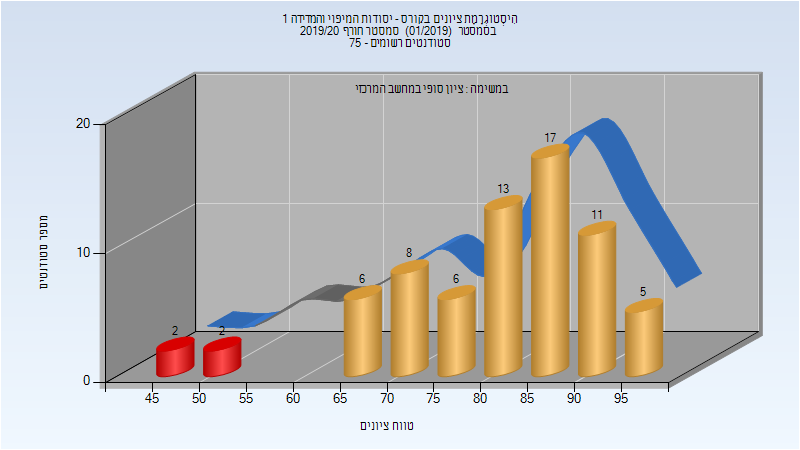
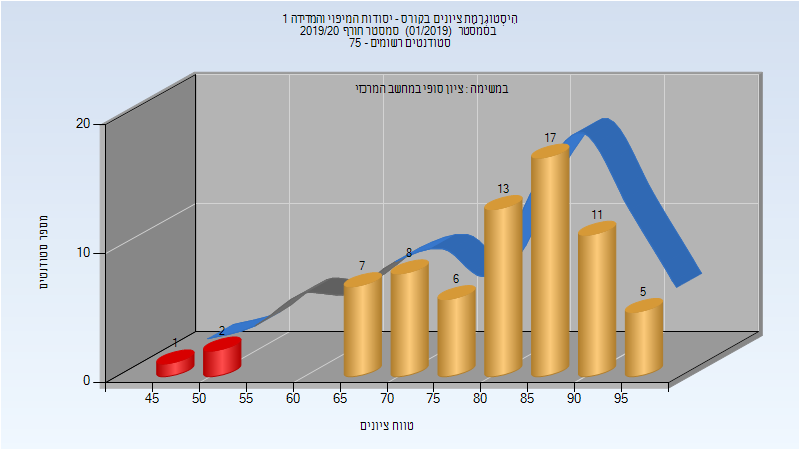
Deploy michael-maltsev/technion-histograms to github.com/michael-maltsev/technion-histograms.git:gh-pages

Changed region(s): [[0.25, 0.5289, 0.5625, 0.7467], [0.1875, 0.7467, 0.25, 0.8089], [0.5625, 0.4978, 0.5938, 0.5289]]

diff --git a/014702/index.html b/014702/index.html
@@ -1,0 +1,94 @@
+<!DOCTYPE html>
+<html lang="he" dir="rtl">
+  <head>
+    <meta charset="utf-8">
+    <meta name="viewport" content="width=device-width, initial-scale=1">
+    <title>014702 - תכנון תחבורה | technion-histograms</title>
+    <style>
+      /* stolen from thebestmotherfucking.website */
+      body{font-family:Open Sans,Arial;color:#454545;font-size:16px;margin:2em auto;max-width:800px;padding:1em;line-height:1.4;text-align:justify}html.contrast body{color:#050505}html.contrast blockquote{color:#11151a}html.contrast blockquote:before{color:#262626}html.contrast a{color:#0051c9}html.contrast a:visited{color:#7d013e}html.contrast span.wr{color:#800}html.contrast span.mfw{color:#4d0000}@media screen and (prefers-color-scheme:light){html.inverted{background-color:#000}html.inverted body{color:#d9d9d9}html.inverted div#contrast,html.inverted div#invmode{color:#fff;background-color:#000}html.inverted blockquote{color:#d3c9be}html.inverted blockquote:before{color:#b8b8b8}html.inverted a{color:#00a2e7}html.inverted a:visited{color:#ca1a70}html.inverted span.wr{color:#d24637}html.inverted span.mfw{color:#b00000}html.inverted.contrast{background-color:#000}html.inverted.contrast body{color:#fff}html.inverted.contrast div#contrast,html.inverted.contrast div#invmode{color:#fff;background-color:#000}html.inverted.contrast blockquote{color:#f8f6f5}html.inverted.contrast blockquote:before{color:#e5e5e5}html.inverted.contrast a{color:#44c7ff}html.inverted.contrast a:visited{color:#e9579e}html.inverted.contrast span.wr{color:#db695d}html.inverted.contrast span.mfw{color:#ff0d0d}}@media (prefers-color-scheme:dark){html:not(.inverted){background-color:#000}html:not(.inverted) body{color:#d9d9d9}html:not(.inverted) div#contrast,html:not(.inverted) div#invmode{color:#fff;background-color:#000}html:not(.inverted) blockquote{color:#d3c9be}html:not(.inverted) blockquote:before{color:#b8b8b8}html:not(.inverted) a{color:#00a2e7}html:not(.inverted) a:visited{color:#ca1a70}html:not(.inverted) span.wr{color:#d24637}html:not(.inverted) span.mfw{color:#b00000}html:not(.inverted).contrast{background-color:#000}html:not(.inverted).contrast body{color:#fff}html:not(.inverted).contrast div#contrast,html:not(.inverted).contrast div#invmode{color:#fff;background-color:#000}html:not(.inverted).contrast blockquote{color:#f8f6f5}html:not(.inverted).contrast blockquote:before{color:#e5e5e5}html:not(.inverted).contrast a{color:#44c7ff}html:not(.inverted).contrast a:visited{color:#e9579e}html:not(.inverted).contrast span.wr{color:#db695d}html:not(.inverted).contrast span.mfw{color:#ff0d0d}html.inverted html{background-color:#fefefe}}a{color:#07a}a:visited{color:#941352}.noselect{-webkit-touch-callout:none;-webkit-user-select:none;-khtml-user-select:none;-moz-user-select:none;-ms-user-select:none;user-select:none}span.citneed{vertical-align:top;font-size:.7em;padding-left:.3em}small{font-size:.4em}p.st{margin-top:-1em}div.fancyPositioning div.picture-left{float:left;width:40%;overflow:hidden;margin-right:1em}div.fancyPositioning div.picture-left img{width:100%}div.fancyPositioning div.picture-left figure{margin:10px}div.fancyPositioning div.picture-left figure figcaption{font-size:.7em}div.fancyPositioning div.tleft{float:left;width:55%}div.fancyPositioning div.tleft p:first-child{margin-top:0}div.fancyPositioning:after{display:block;content:"";clear:both}ul li img{height:1em}blockquote{color:#456;margin-left:0;margin-top:2em;margin-bottom:2em}blockquote span{float:left;margin-left:1rem;padding-top:1rem}blockquote author{display:block;clear:both;font-size:.6em;margin-left:2.4rem;font-style:oblique}blockquote author:before{content:"- ";margin-right:1em}blockquote:before{font-family:Times New Roman,Times,Arial;color:#666;content:open-quote;font-size:2.2em;font-weight:600;float:left;margin-top:0;margin-right:.2rem;width:1.2rem}blockquote:after{content:"";display:block;clear:both}@media screen and (max-width:500px){body{text-align:left}div.fancyPositioning div.picture-left,div.fancyPositioning div.tleft{float:none;width:inherit}blockquote span{width:80%}blockquote author{padding-top:1em;width:80%;margin-left:15%}blockquote author:before{content:"";margin-right:inherit}}span.visited{color:#941352}span.visited-maroon{color:#85144b}span.wr{color:#c0392b;font-weight:600;text-decoration:underline}div#contrast{color:#000;top:10px}div#contrast,div#invmode{cursor:pointer;position:fixed;right:10px;font-size:.8em;text-decoration:underline;-webkit-touch-callout:none;-webkit-user-select:none;-khtml-user-select:none;-moz-user-select:none;-ms-user-select:none;user-select:none}div#invmode{color:#fff;background-color:#000;top:34px;padding:2px 5px}@media screen and (max-width:1080px){div#contrast,div#invmode{position:absolute}}span.sb{color:#00e}span.sb,span.sv{cursor:not-allowed}span.sv{color:#551a8b}span.foufoufou{color:#444;font-weight:700}span.foufoufou:before{content:"";display:inline-block;width:1em;height:1em;margin-left:.2em;margin-right:.2em;background-color:#444}span.foufivfoufivfoufiv{color:#454545;font-weight:700}span.foufivfoufivfoufiv:before{content:"";display:inline-block;width:1em;height:1em;margin-left:.2em;margin-right:.2em;background-color:#454545}span.mfw{color:#730000}a.kopimi,a.kopimi img.kopimi{display:block;margin-left:auto;margin-right:auto}a.kopimi img.kopimi{height:2em}p.fakepre{font-family:monospace;font-size:.9em}
+      table {
+        border-collapse: collapse;
+        border: 1px solid #454545;
+      }
+      table th, table td {
+        border: 1px solid #454545;
+        padding: 10px;
+      }
+    </style>
+  </head>
+  <body>
+    <h1>014702 - תכנון תחבורה</h1>
+<h2>חורף 2019-2020</h2>
+<table>
+<thead>
+<tr>
+<th>איש סגל</th>
+<th>תפקיד</th>
+</tr>
+</thead>
+<tbody>
+<tr>
+<td>שיפטן יורם</td>
+<td>מרצה - אחראי מקצוע</td>
+</tr>
+<tr>
+<td>בן-סימון ציפורה</td>
+<td>סגל מנהלי - עם הרשאות מרצה אחראי</td>
+</tr>
+</tbody>
+</table>
+<h3>סופי מועד א'</h3>
+<p><img src="201901/Final_A.png" alt="201901 Final_A" /></p>
+<table>
+<thead>
+<tr>
+<th>סטודנטים</th>
+<th>עברו/נכשלו</th>
+<th>אחוז עוברים</th>
+<th>ציון מינימלי</th>
+<th>ציון מקסימלי</th>
+<th>ממוצע</th>
+<th>חציון</th>
+</tr>
+</thead>
+<tbody>
+<tr>
+<td>41</td>
+<td>41/0</td>
+<td>100</td>
+<td>61</td>
+<td>95</td>
+<td>78.732</td>
+<td>78</td>
+</tr>
+</tbody>
+</table>
+<h3>סופי</h3>
+<p><img src="201901/Finals.png" alt="201901 Finals" /></p>
+<table>
+<thead>
+<tr>
+<th>סטודנטים</th>
+<th>עברו/נכשלו</th>
+<th>אחוז עוברים</th>
+<th>ציון מינימלי</th>
+<th>ציון מקסימלי</th>
+<th>ממוצע</th>
+<th>חציון</th>
+</tr>
+</thead>
+<tbody>
+<tr>
+<td>43</td>
+<td>43/0</td>
+<td>100</td>
+<td>64</td>
+<td>95</td>
+<td>79.302</td>
+<td>78</td>
+</tr>
+</tbody>
+</table>
+  </body>
+</html>

diff --git a/index.html b/index.html
@@ -52,6 +52,7 @@
 <a href="014620/">014620 - עקרונות תכן מבנים בהנדסת ביצוע</a><br />
 <a href="014630/">014630 - מבוא להיבטים משפטיים בבנייה</a><br />
 <a href="014632/">014632 - פרויקטי תשתית# שיטות וניהול</a><br />
+<a href="014702/">014702 - תכנון תחבורה</a><br />
 <a href="014730/">014730 - מבוא להנדסת תחבורה</a><br />
 <a href="014829/">014829 - תחיקת המדידה</a><br />
 <a href="014841/">014841 - יסודות המיפוי והמדידה 1</a><br />

diff --git a/014841/index.html b/014841/index.html
@@ -537,11 +537,11 @@
 <tbody>
 <tr>
 <td>13</td>
-<td>9/4</td>
-<td>69</td>
+<td>10/3</td>
+<td>77</td>
 <td>48</td>
 <td>94</td>
-<td>70</td>
+<td>71.308</td>
 <td>72</td>
 </tr>
 </tbody>
@@ -563,11 +563,11 @@
 <tbody>
 <tr>
 <td>70</td>
-<td>66/4</td>
-<td>94</td>
+<td>67/3</td>
+<td>96</td>
 <td>48</td>
 <td>98</td>
-<td>81.143</td>
+<td>81.386</td>
 <td>84</td>
 </tr>
 </tbody>

diff --git a/014702/README.md b/014702/README.md
@@ -1,0 +1,25 @@
+# 014702 - תכנון תחבורה
+
+## חורף 2019-2020
+
+| איש סגל | תפקיד |
+| ---- | ---- |
+| שיפטן יורם | מרצה - אחראי מקצוע |
+| בן-סימון ציפורה | סגל מנהלי - עם הרשאות מרצה אחראי |
+
+### סופי מועד א'
+
+![201901 Final_A](201901/Final_A.png)
+
+| סטודנטים | עברו/נכשלו | אחוז עוברים | ציון מינימלי | ציון מקסימלי | ממוצע | חציון |
+| ---- | ---- | ---- | ---- | ---- | ---- | ---- |
+| 41 | 41/0 | 100 | 61 | 95 | 78.732 | 78 |
+
+### סופי
+
+![201901 Finals](201901/Finals.png)
+
+| סטודנטים | עברו/נכשלו | אחוז עוברים | ציון מינימלי | ציון מקסימלי | ממוצע | חציון |
+| ---- | ---- | ---- | ---- | ---- | ---- | ---- |
+| 43 | 43/0 | 100 | 64 | 95 | 79.302 | 78 |
+

diff --git a/014841/README.md b/014841/README.md
@@ -160,7 +160,7 @@
 
 | סטודנטים | עברו/נכשלו | אחוז עוברים | ציון מינימלי | ציון מקסימלי | ממוצע | חציון |
 | ---- | ---- | ---- | ---- | ---- | ---- | ---- |
-| 13 | 9/4 | 69 | 48 | 94 | 70 | 72 |
+| 13 | 10/3 | 77 | 48 | 94 | 71.308 | 72 |
 
 ### סופי
 
@@ -168,5 +168,5 @@
 
 | סטודנטים | עברו/נכשלו | אחוז עוברים | ציון מינימלי | ציון מקסימלי | ממוצע | חציון |
 | ---- | ---- | ---- | ---- | ---- | ---- | ---- |
-| 70 | 66/4 | 94 | 48 | 98 | 81.143 | 84 |
+| 70 | 67/3 | 96 | 48 | 98 | 81.386 | 84 |
 

diff --git a/README.md b/README.md
@@ -33,6 +33,7 @@
 [014620 - עקרונות תכן מבנים בהנדסת ביצוע](014620/)  
 [014630 - מבוא להיבטים משפטיים בבנייה](014630/)  
 [014632 - פרויקטי תשתית# שיטות וניהול](014632/)  
+[014702 - תכנון תחבורה](014702/)  
 [014730 - מבוא להנדסת תחבורה](014730/)  
 [014829 - תחיקת המדידה](014829/)  
 [014841 - יסודות המיפוי והמדידה 1](014841/)  
